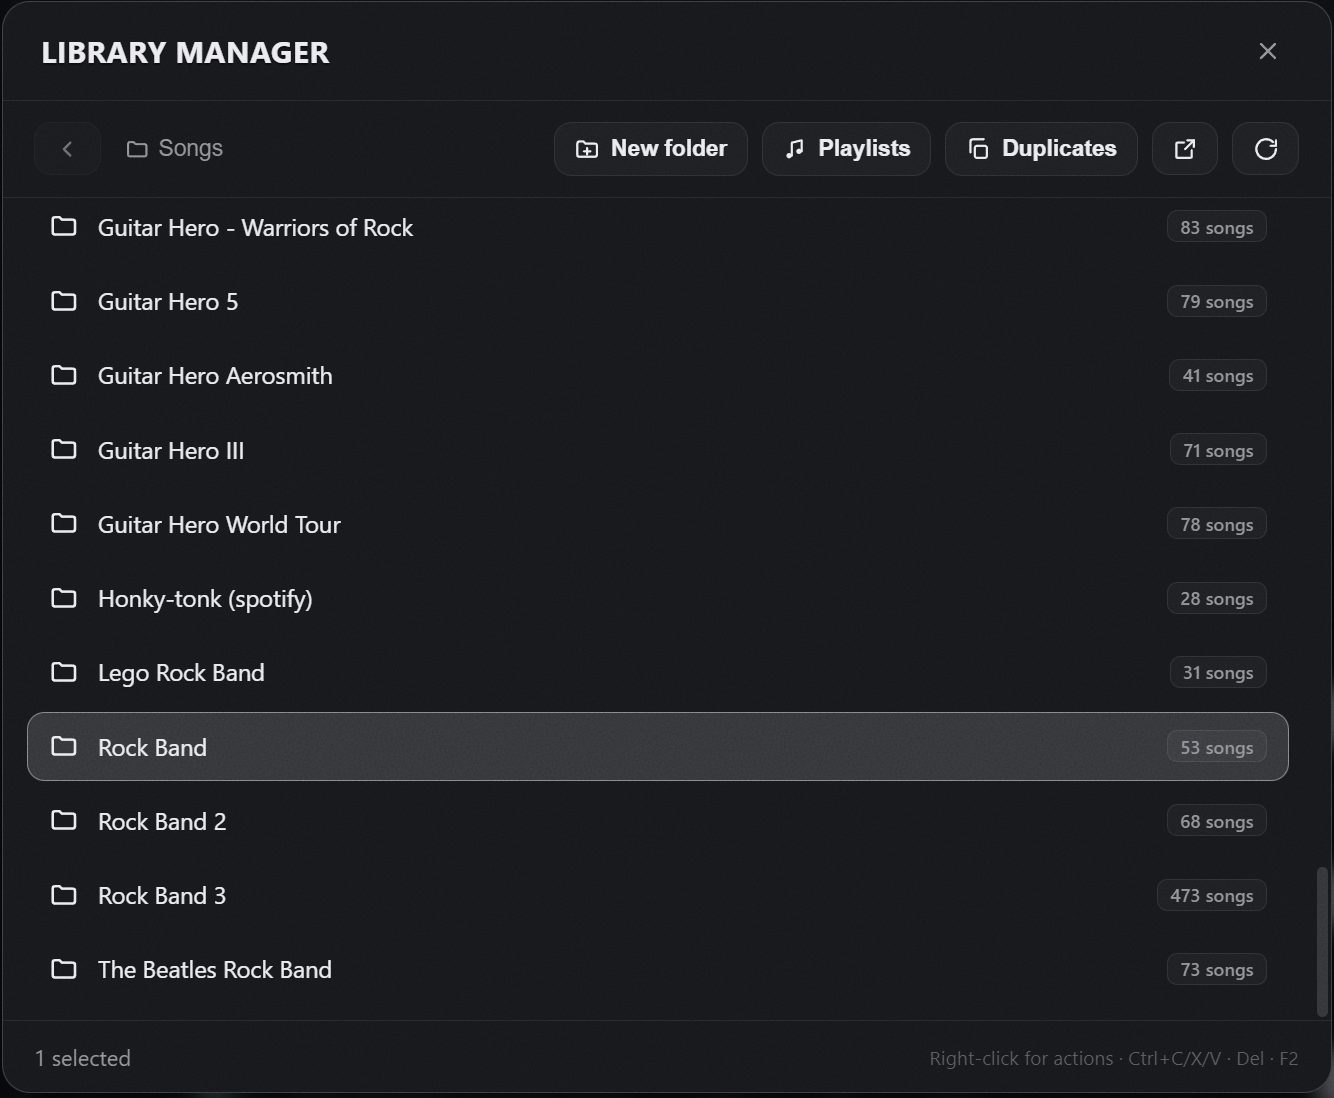
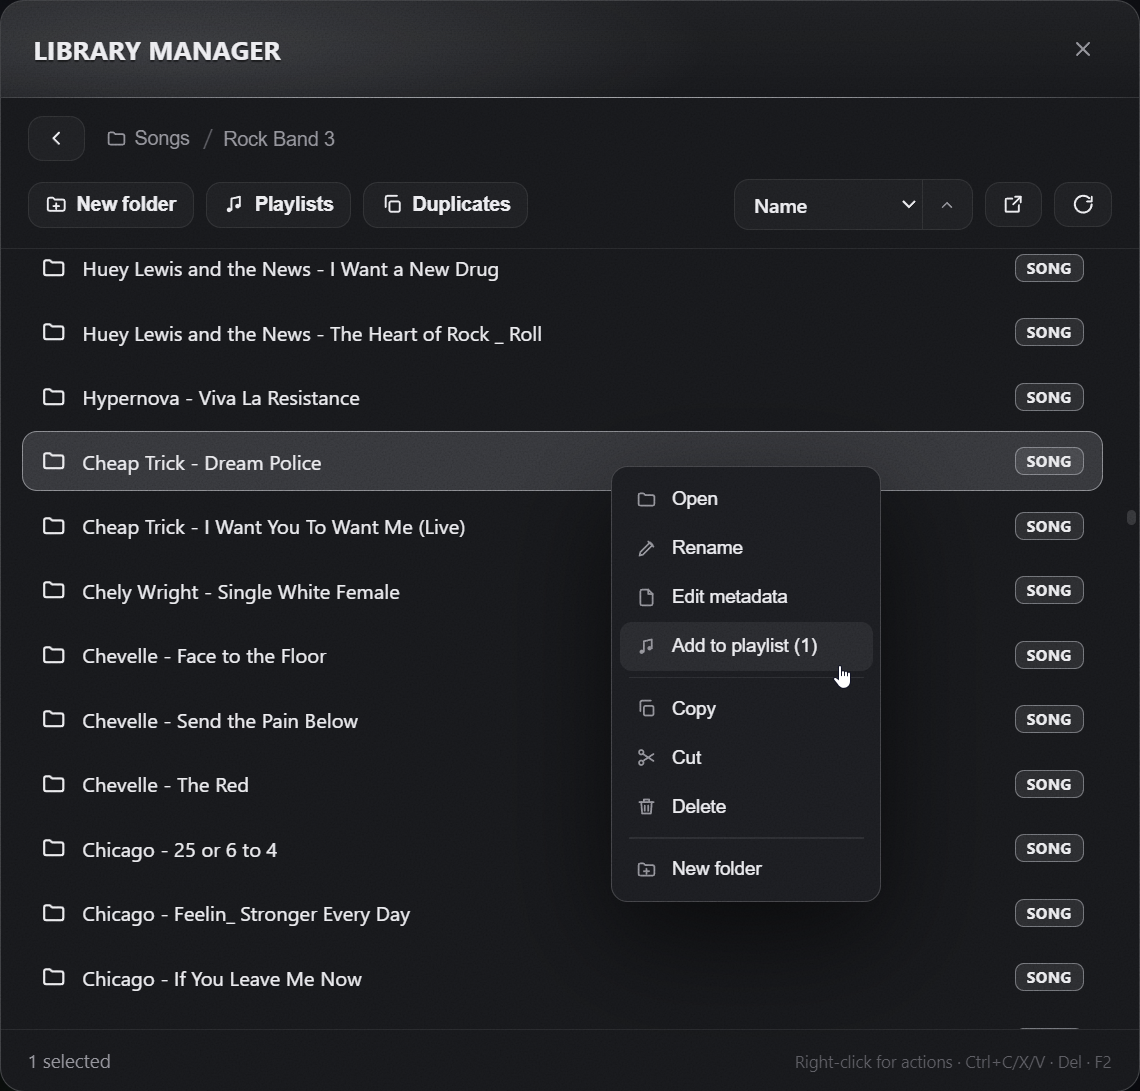
README: update Settings / Setlist / Library screenshots
Refresh the three screenshots the landing page now uses to their current
versions (Settings shows the new two-column layout; Library manager and Setlist
manager updated). Kept as PNG to avoid the colour banding lossy WebP introduced;
README refs for Settings and Setlist switched from .webp to .png accordingly.

diff --git a/README.md b/README.md
@@ -145,7 +145,7 @@ clicks — a whole setlist from a playlist you already love. See
 </p>
 <table>
   <tr>
-    <td width="50%" valign="top"><img alt="Create and edit Clone Hero setlists" width="100%" src="docs/img/setlist-manager.webp" /></td>
+    <td width="50%" valign="top"><img alt="Create and edit Clone Hero setlists" width="100%" src="docs/img/setlist-manager.png" /></td>
     <td width="50%" valign="top"><img alt="Duplicate finder comparing copies side by side" width="100%" src="docs/img/find-duplicates.webp" /></td>
   </tr>
 </table>
@@ -311,7 +311,7 @@ anywhere" bundle for sharing.
 - **Quit**.
 
 <p align="center">
-  <img alt="Settings panel: Songs folder, hotkey reminder pill and more" width="420" src="docs/img/settings.webp" />
+  <img alt="Settings panel: Songs folder, hotkey reminder pill and more" width="420" src="docs/img/settings.png" />
 </p>
 
 > **Scanning into the game:** Clone Hero has no external rescan command —